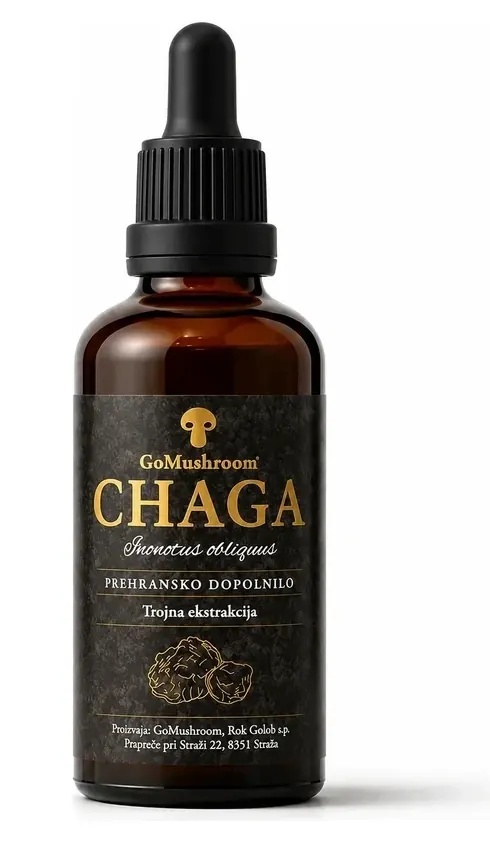
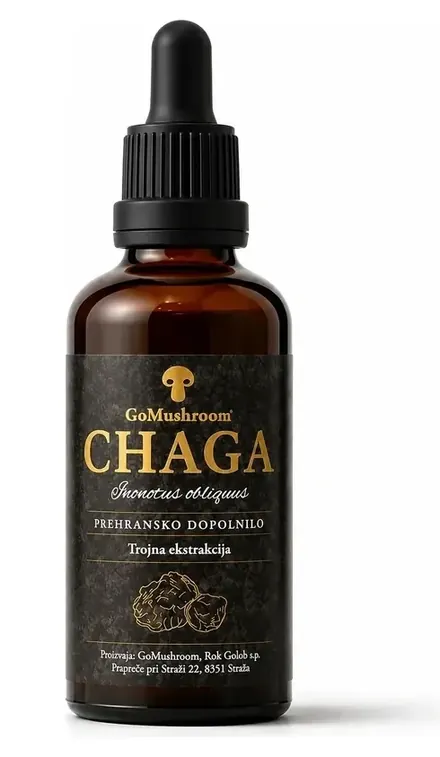
Slike na domaci strani po merilu vpogleda Image delivery
Vpogled Image delivery primerja piksle datoteke s CSS skatlo in emulirane
gostote zaslona ne uposteva - v izvorni kodi je to zapisano kot znana
pomanjkljivost, kadar sled nima hostDPR. Zato je 499px datoteko v 309px
skatli oznacil kot preveliko, ceprav bi telefon pri gostoti 1,75 potreboval
541px.

Prejsnje stiskanje je datoteke spravilo tik nad prag: opozori sele, ko je
zapravljeni delez krat bajti vec kot 12288 B, pet od osmih jih je imelo
med 12604 in 13944.

Mojstri so zdaj 3-10% ozji (490-536 -> 440-493 px). Vseh osem je pod pragom
z okoli 19% rezerve, skupno 159 -> 141 KB. Pri gostoti, s katero se slika
res rise, je povprecna razlika 1,1/255, najvec 93 na robovih crk.

Visina vsebnika izdelkov ostane 2817 px, izbira razlicic pa nespremenjena:
namizje pri gostoti 1 se naprej vzame 320w.

Claude-Session: https://claude.ai/code/session_01Dh9G2apGUCssQ8z7kMmBGc

diff --git a/index.html b/index.html
@@ -323,13 +323,13 @@
       <article class="gm-product gm-product--reishi">
         <div class="gm-product-media">
           <img class="gm-product-img-alc" src="/assets/shop/reishi-tinktura-50ml-gomushroom-home-320.webp"
-               srcset="/assets/shop/reishi-tinktura-50ml-gomushroom-home-320.webp 320w, /assets/shop/reishi-tinktura-50ml-gomushroom-home.webp 525w"
+               srcset="/assets/shop/reishi-tinktura-50ml-gomushroom-home-320.webp 320w, /assets/shop/reishi-tinktura-50ml-gomushroom-home.webp 475w"
                sizes="(max-width:900px) 76vw, 252px"
-               width="525" height="843" alt="Reishi tinktura (Ganoderma lucidum) - trojna ekstrakcija GoMushroom" />
+               width="475" height="763" alt="Reishi tinktura (Ganoderma lucidum) - trojna ekstrakcija GoMushroom" />
           <img class="gm-product-img-gly" src="/assets/shop/reishi-tinktura-50ml-gomushroom-home-gly-320.webp"
-               srcset="/assets/shop/reishi-tinktura-50ml-gomushroom-home-gly-320.webp 320w, /assets/shop/reishi-tinktura-50ml-gomushroom-home-gly.webp 536w"
+               srcset="/assets/shop/reishi-tinktura-50ml-gomushroom-home-gly-320.webp 320w, /assets/shop/reishi-tinktura-50ml-gomushroom-home-gly.webp 493w"
                sizes="(max-width:900px) 76vw, 252px"
-               width="536" height="843" alt="" aria-hidden="true" />
+               width="493" height="775" alt="" aria-hidden="true" />
         </div>
         <div class="gm-product-body">
           <h3>Reishi</h3>
@@ -352,13 +352,13 @@
        <article class="gm-product gm-product--bradovec">
         <div class="gm-product-media">
           <img class="gm-product-img-alc" src="/assets/shop/resasti-bradovec-tinktura-50ml-gomushroom-home-320.webp"
-               srcset="/assets/shop/resasti-bradovec-tinktura-50ml-gomushroom-home-320.webp 320w, /assets/shop/resasti-bradovec-tinktura-50ml-gomushroom-home.webp 499w"
+               srcset="/assets/shop/resasti-bradovec-tinktura-50ml-gomushroom-home-320.webp 320w, /assets/shop/resasti-bradovec-tinktura-50ml-gomushroom-home.webp 452w"
                sizes="(max-width:900px) 76vw, 252px"
-               width="499" height="843" alt="Resasti bradovec tinktura (Hericium erinaceus) - trojna ekstrakcija GoMushroom" />
+               width="452" height="764" alt="Resasti bradovec tinktura (Hericium erinaceus) - trojna ekstrakcija GoMushroom" />
           <img class="gm-product-img-gly" src="/assets/shop/resasti-bradovec-tinktura-50ml-gomushroom-home-gly-320.webp"
-               srcset="/assets/shop/resasti-bradovec-tinktura-50ml-gomushroom-home-gly-320.webp 320w, /assets/shop/resasti-bradovec-tinktura-50ml-gomushroom-home-gly.webp 488w"
+               srcset="/assets/shop/resasti-bradovec-tinktura-50ml-gomushroom-home-gly-320.webp 320w, /assets/shop/resasti-bradovec-tinktura-50ml-gomushroom-home-gly.webp 473w"
                sizes="(max-width:900px) 76vw, 252px"
-               width="488" height="843" alt="" aria-hidden="true" />
+               width="473" height="817" alt="" aria-hidden="true" />
         </div>
         <div class="gm-product-body">
           <h3>Resasti bradovec</h3>
@@ -381,13 +381,13 @@
       <article class="gm-product gm-product--chaga">
         <div class="gm-product-media">
           <img class="gm-product-img-alc" src="/assets/shop/chaga-tinktura-50ml-gomushroom-home-320.webp"
-               srcset="/assets/shop/chaga-tinktura-50ml-gomushroom-home-320.webp 320w, /assets/shop/chaga-tinktura-50ml-gomushroom-home.webp 490w"
+               srcset="/assets/shop/chaga-tinktura-50ml-gomushroom-home-320.webp 320w, /assets/shop/chaga-tinktura-50ml-gomushroom-home.webp 440w"
                sizes="(max-width:900px) 76vw, 252px"
-               width="490" height="843" alt="Chaga tinktura (Inonotus obliquus) - trojna ekstrakcija GoMushroom" />
+               width="440" height="757" alt="Chaga tinktura (Inonotus obliquus) - trojna ekstrakcija GoMushroom" />
           <img class="gm-product-img-gly" src="/assets/shop/chaga-tinktura-50ml-gomushroom-home-gly-320.webp"
-               srcset="/assets/shop/chaga-tinktura-50ml-gomushroom-home-gly-320.webp 320w, /assets/shop/chaga-tinktura-50ml-gomushroom-home-gly.webp 496w"
+               srcset="/assets/shop/chaga-tinktura-50ml-gomushroom-home-gly-320.webp 320w, /assets/shop/chaga-tinktura-50ml-gomushroom-home-gly.webp 455w"
                sizes="(max-width:900px) 76vw, 252px"
-               width="496" height="843" alt="" aria-hidden="true" />
+               width="455" height="773" alt="" aria-hidden="true" />
         </div>
         <div class="gm-product-body">
           <h3>Chaga</h3>
@@ -410,13 +410,13 @@
       <article class="gm-product gm-product--smrekovi">
         <div class="gm-product-media">
           <img class="gm-product-img-alc" src="/assets/shop/smrekovi-vrsicki-tinktura-50ml-gomushroom-home-320.webp"
-               srcset="/assets/shop/smrekovi-vrsicki-tinktura-50ml-gomushroom-home-320.webp 320w, /assets/shop/smrekovi-vrsicki-tinktura-50ml-gomushroom-home.webp 490w"
+               srcset="/assets/shop/smrekovi-vrsicki-tinktura-50ml-gomushroom-home-320.webp 320w, /assets/shop/smrekovi-vrsicki-tinktura-50ml-gomushroom-home.webp 445w"
                sizes="(max-width:900px) 76vw, 252px"
-               width="490" height="843" alt="Smrekovi vršički koncentrat - hidroetanolna ekstrakcija GoMushroom" />
+               width="445" height="766" alt="Smrekovi vršički koncentrat - hidroetanolna ekstrakcija GoMushroom" />
           <img class="gm-product-img-gly" src="/assets/shop/smrekovi-vrsicki-tinktura-50ml-gomushroom-home-gly-320.webp"
-               srcset="/assets/shop/smrekovi-vrsicki-tinktura-50ml-gomushroom-home-gly-320.webp 320w, /assets/shop/smrekovi-vrsicki-tinktura-50ml-gomushroom-home-gly.webp 502w"
+               srcset="/assets/shop/smrekovi-vrsicki-tinktura-50ml-gomushroom-home-gly-320.webp 320w, /assets/shop/smrekovi-vrsicki-tinktura-50ml-gomushroom-home-gly.webp 467w"
                sizes="(max-width:900px) 76vw, 252px"
-               width="502" height="843" alt="" aria-hidden="true" />
+               width="467" height="784" alt="" aria-hidden="true" />
         </div>
         <div class="gm-product-body">
           <h3>Smrekovi vršički tinktura</h3>
